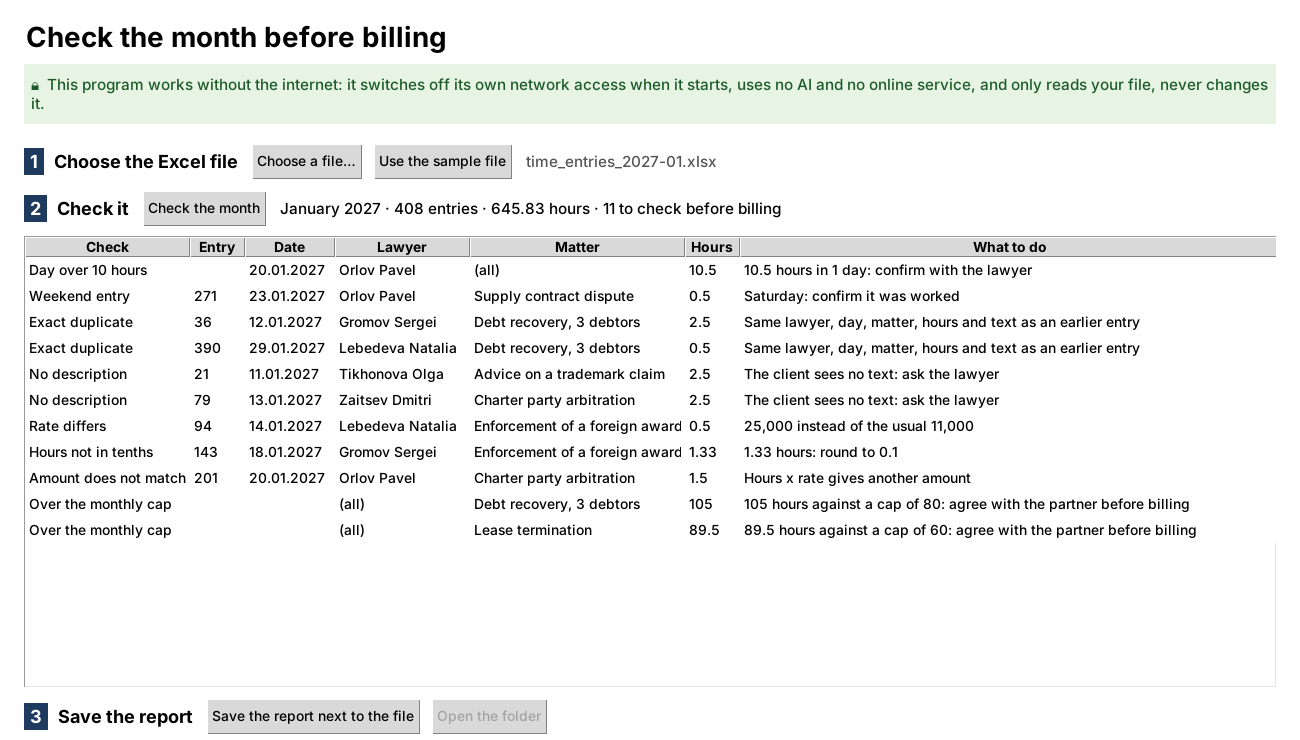
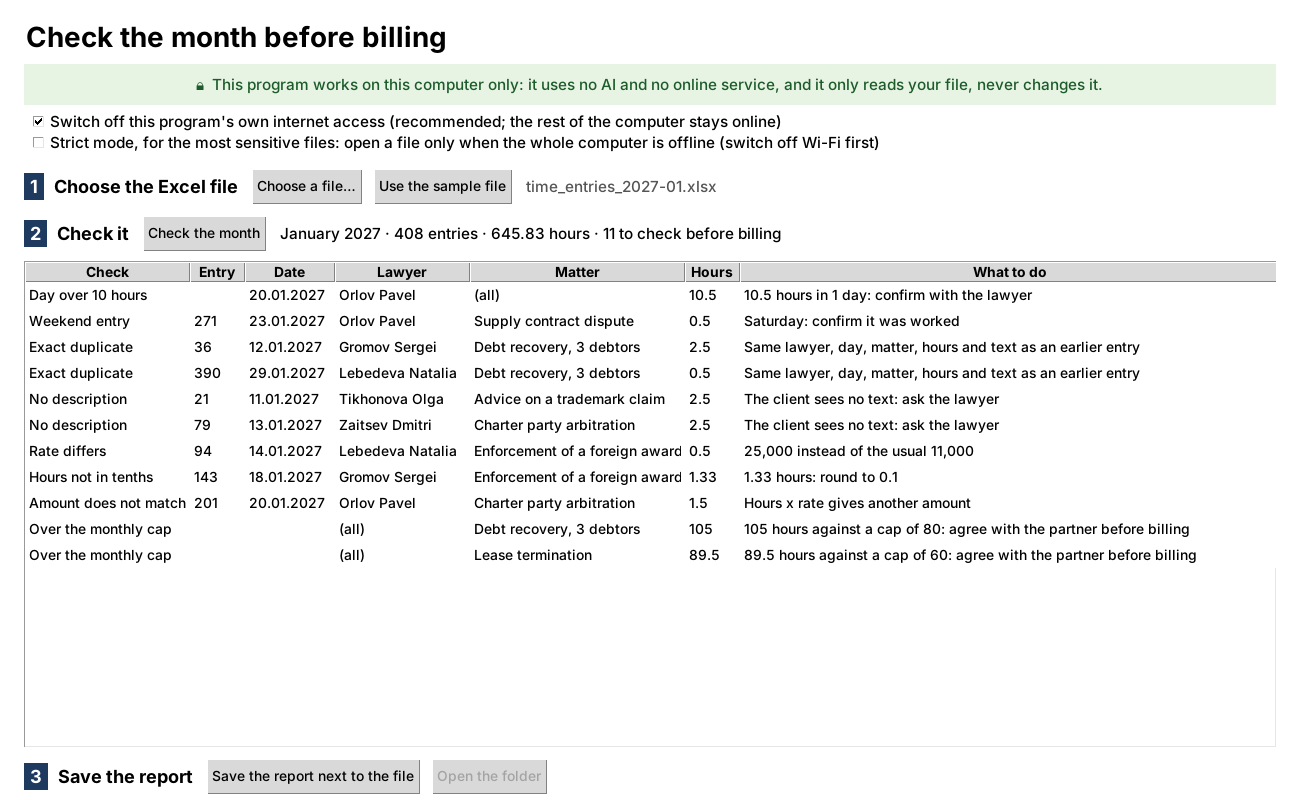
Case 4: start files install Python if missing; the program's network block is a tick box, plus an optional strict offline mode
Claude-Session: https://claude.ai/code/session_01454GT387qxoBjMBR3oQfAu

Changed region(s): [[0.0, 0.0311, 0.9846, 0.7459], [0.0, 0.9324, 0.4308, 0.9946]]

diff --git a/04-offline-analysis/README.md b/04-offline-analysis/README.md
@@ -1,18 +1,19 @@
-# 4. Confidential data, checked entirely on 1 computer
+# 4. Confidential data, checked on 1 computer
 
 **The task.** A monthly report on lawyers' hours has to be checked before it goes to the client, for what the client must not see: a day of 14 hours, a duplicate, an entry with no text, a rate typed by mistake, a matter over its monthly cap. The file is confidential, and for some partners even the theory of a leak is too much: they would rather give the job to 3 assistants than let the file near an AI or a website.
 
-**What is shown here.** A small program which does the check with nothing outside the computer involved: no internet, no AI, no online service, and nothing to install besides Python itself. It does less than an AI could, and that is the point: the most confidential way of doing the job, which still saves the hours.
+**What is shown here.** A small program which does the check with nothing outside the computer involved: no AI, no online service, and by default not even its own access to the internet. It does less than an AI could, and that is the point: the most confidential way of doing the job, which still saves the hours. How strict to be is a tick box, since not every file is that sensitive and the computer may be needed online at the same time.
 
 ![The program after checking the sample month](images/window.png)
 
 ## Run it yourself in 5 minutes
 
-You need Python on the computer: a free download from [python.org](https://www.python.org/downloads/). On Windows, tick "Add Python to PATH" during the installation. Nothing else is installed, now or later.
-
 1. **Download this folder.** On the main page of the repository: the green "Code" button → "Download ZIP", then unpack it and open the folder `04-offline-analysis`.
-2. **Start the program.** Windows: double-click `check_month.pyw`. Mac: right-click `start-mac.command` → Open.
-3. **Follow the 3 numbered steps in the window:**
+2. **Start the program.** Windows: double-click `start-windows.bat`. Mac: right-click `start-mac.command` → Open. If Python is not on the computer yet, the start file installs it first, once, from python.org (the Mac asks for your password); this is the only moment anything is downloaded, and it happens before the program starts.
+3. **Choose how strict to be,** with the 2 tick boxes at the top:
+   - *Switch off this program's own internet access*: on by default. The program needs no internet anyway; with this on, it could not use it even by mistake. The browser, the mail and everything else on the computer stay online.
+   - *Strict mode*: for the most sensitive files. The program opens a file only when the whole computer is offline, and asks you to switch off Wi-Fi first if it is not.
+4. **Follow the 3 numbered steps in the window:**
    1. "Use the sample file" (or "Choose a file…" for your own);
    2. "Check the month": with the sample, 11 lines to check appear, each with what to do about it;
    3. "Save the report next to the file": a new Excel file appears beside the original, with 4 sheets: Summary, To check, By matter, By lawyer.
@@ -24,8 +25,9 @@ You do not have to take it on trust; each of these takes a minute:
 | Check | What you will see |
 | --- | --- |
 | Switch off Wi-Fi, or unplug the cable, and run the program | It works exactly the same |
-| Open `check_month.pyw` in Notepad and read the first lines | The program switches off its own access to the network before it does anything else: any attempt to connect fails |
-| Look at the list of what the program uses, a few lines further down | Only modules which come with Python: files, zip, XML, dates, the window. Nothing for the internet, no AI library, nothing downloaded |
+| Tick "Strict mode" and try to open a file while online | The program refuses and asks you to switch off Wi-Fi first |
+| Open `check_month.pyw` in Notepad and read the first lines | How the program switches off its own access to the network, before it does anything else, and the only network step it ever takes: in strict mode, 1 attempt to see whether the computer is online, which sends nothing |
+| Look at the list of what the program uses, a few lines further down | Only modules which come with Python: files, zip, XML, dates, the window, and the network module only in the lines which switch it off. No AI library, nothing downloaded |
 | Look at the date your file was last changed, before and after | The same: the file is only read; the report is a separate new file |
 
 ## What it checks
@@ -48,7 +50,7 @@ The column names and the limits (10 hours a day) are settings at the top of the 
 | File | What it is |
 | --- | --- |
 | `check_month.pyw` | The whole program, in 1 file you can read |
-| `start-mac.command` | Starts it on a Mac |
+| `start-windows.bat`, `start-mac.command` | Start it; install Python first if it is missing |
 | `sample/time_entries_2027-01.xlsx` | A fictional month: 408 time entries of an invented law firm, with the problems planted on purpose |
 | `make_sample.py` | How the sample was made; the only file here which needs an extra package |
 

diff --git a/README.md b/README.md
@@ -13,7 +13,7 @@ All data in the samples is fictional. The real files were confidential and are n
 | [1. Rows grouped by colour](01-group-rows-by-highlight/) (January 2026) | Monthly time entries for the firm's key client: put together the rows of a Word table which are marked with the same colour | 1 script, used for the monthly report |
 | [2. Ledger clean-up](02-ledger-cleanup/) (January 2026) | Folders of quarterly VAT ledger exports: delete the empty columns, rebuild the header, add the total, fit the print, then 1 summary table per folder | 2 scripts, used on 2 folders |
 | [3. A playbook for a person or an AI agent](03-agent-playbook/) (October 2026) | The offsite playbook for a flight moved by the carrier, rewritten so that an AI agent connected to the workbook can follow it, stopping for the coordinator's approval | The playbook, 2 logged runs, and a 5-minute guide to run it yourself |
-| [4. Confidential data, checked entirely on 1 computer](04-offline-analysis/) (October 2026) | A month of lawyers' time entries checked before billing: duplicates, days over 10 hours, empty descriptions, wrong rates, matters over their cap | A program in 1 file which needs nothing but Python, switches off its own network access and only reads the file |
+| [4. Confidential data, checked on 1 computer](04-offline-analysis/) (October 2026) | A month of lawyers' time entries checked before billing: duplicates, days over 10 hours, empty descriptions, wrong rates, matters over their cap | A program in 1 file which needs nothing but Python (the start file installs it if missing), only reads the file, and can be cut off from the internet with 1 tick box |
 
 ## How I worked with the AI
 
